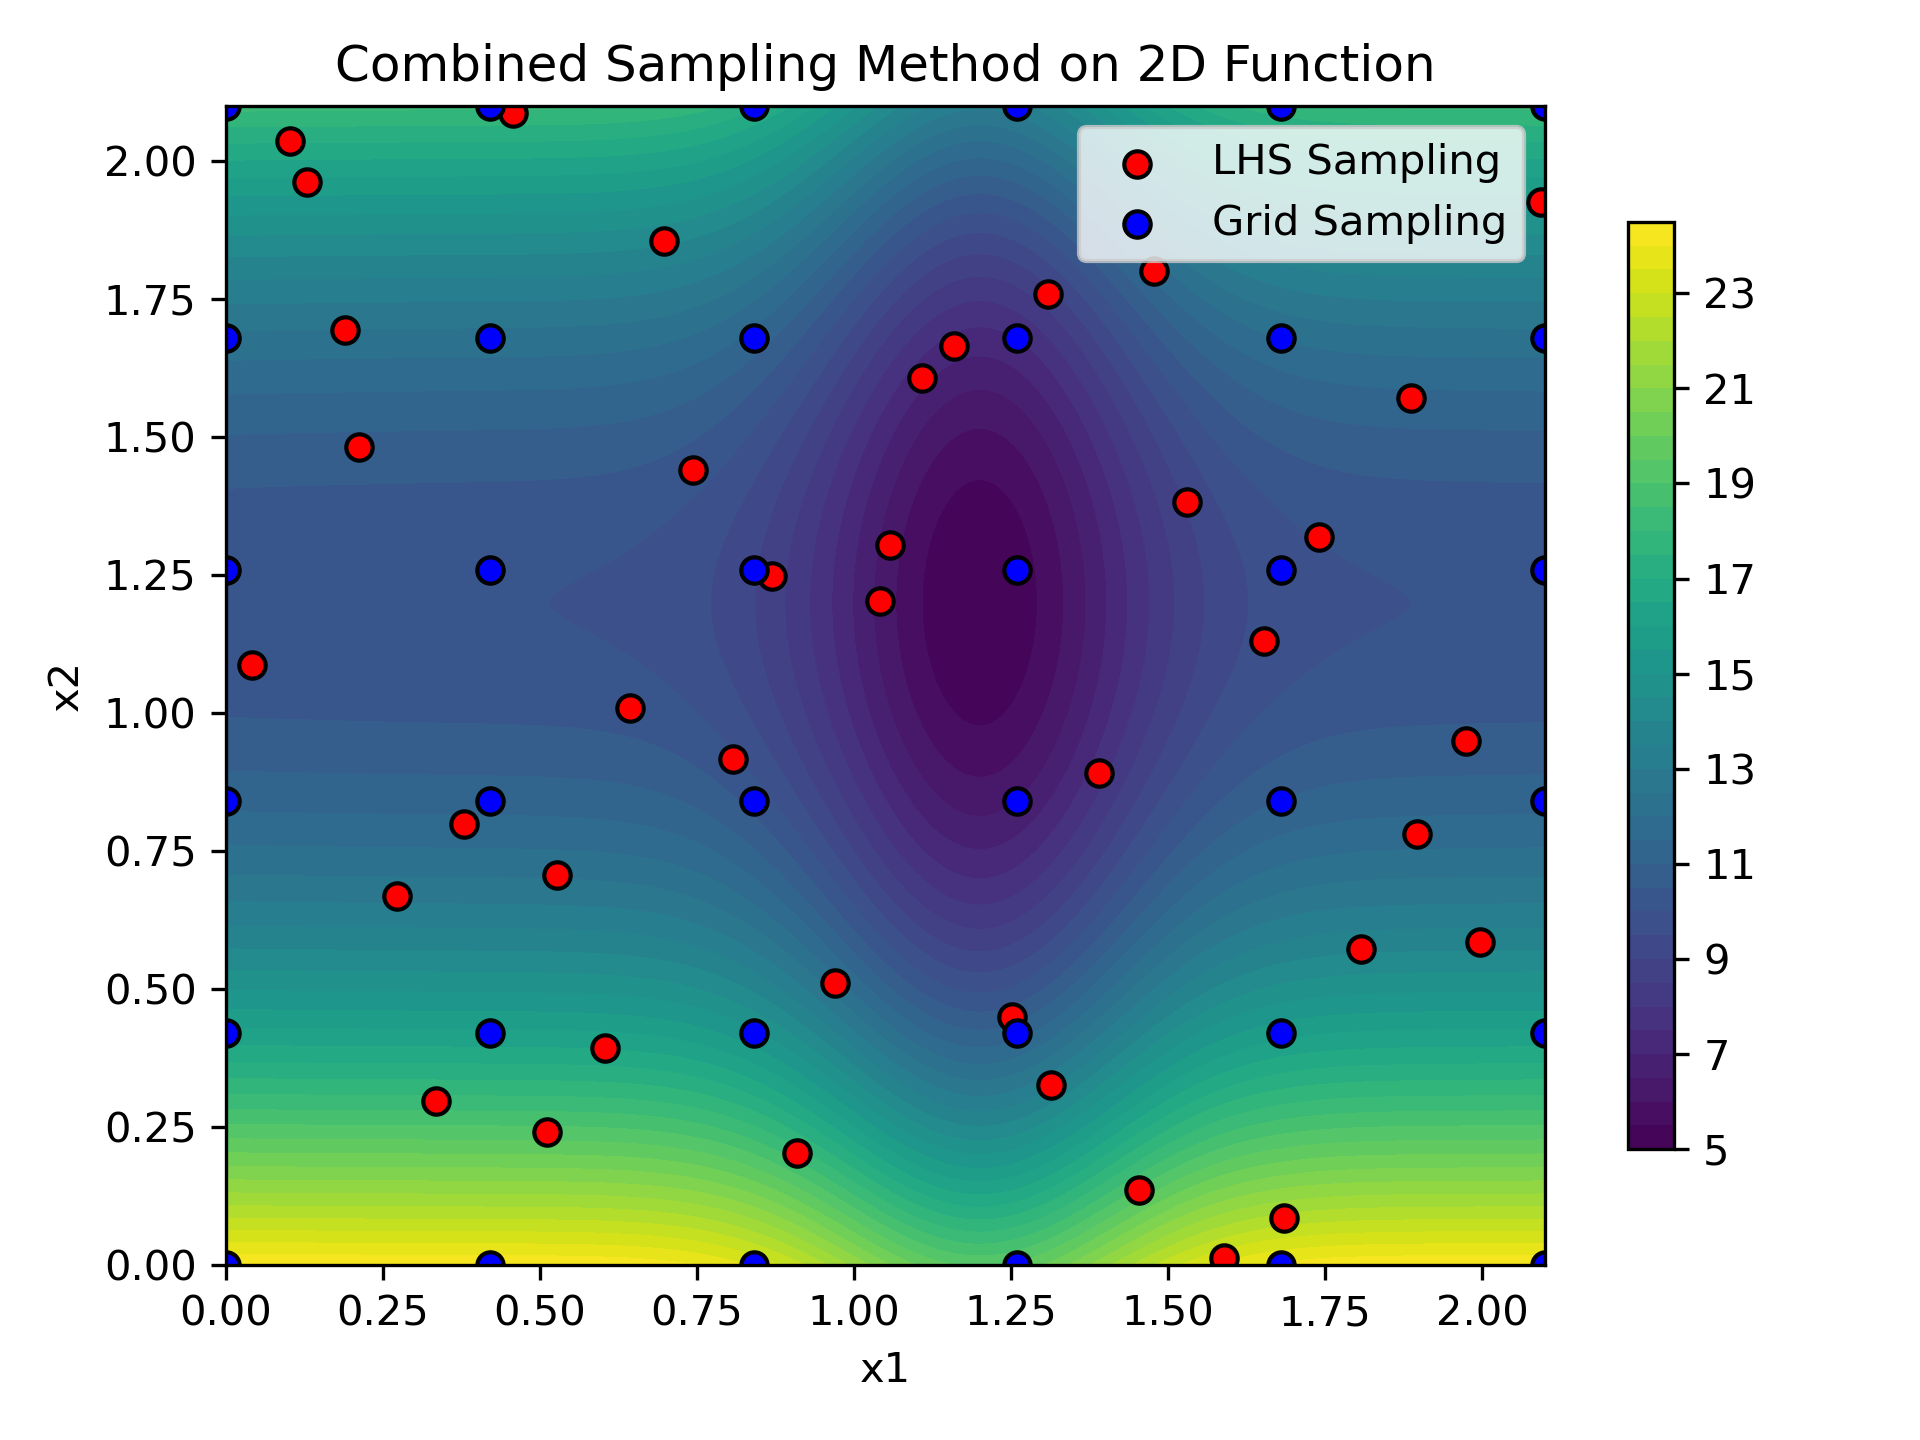
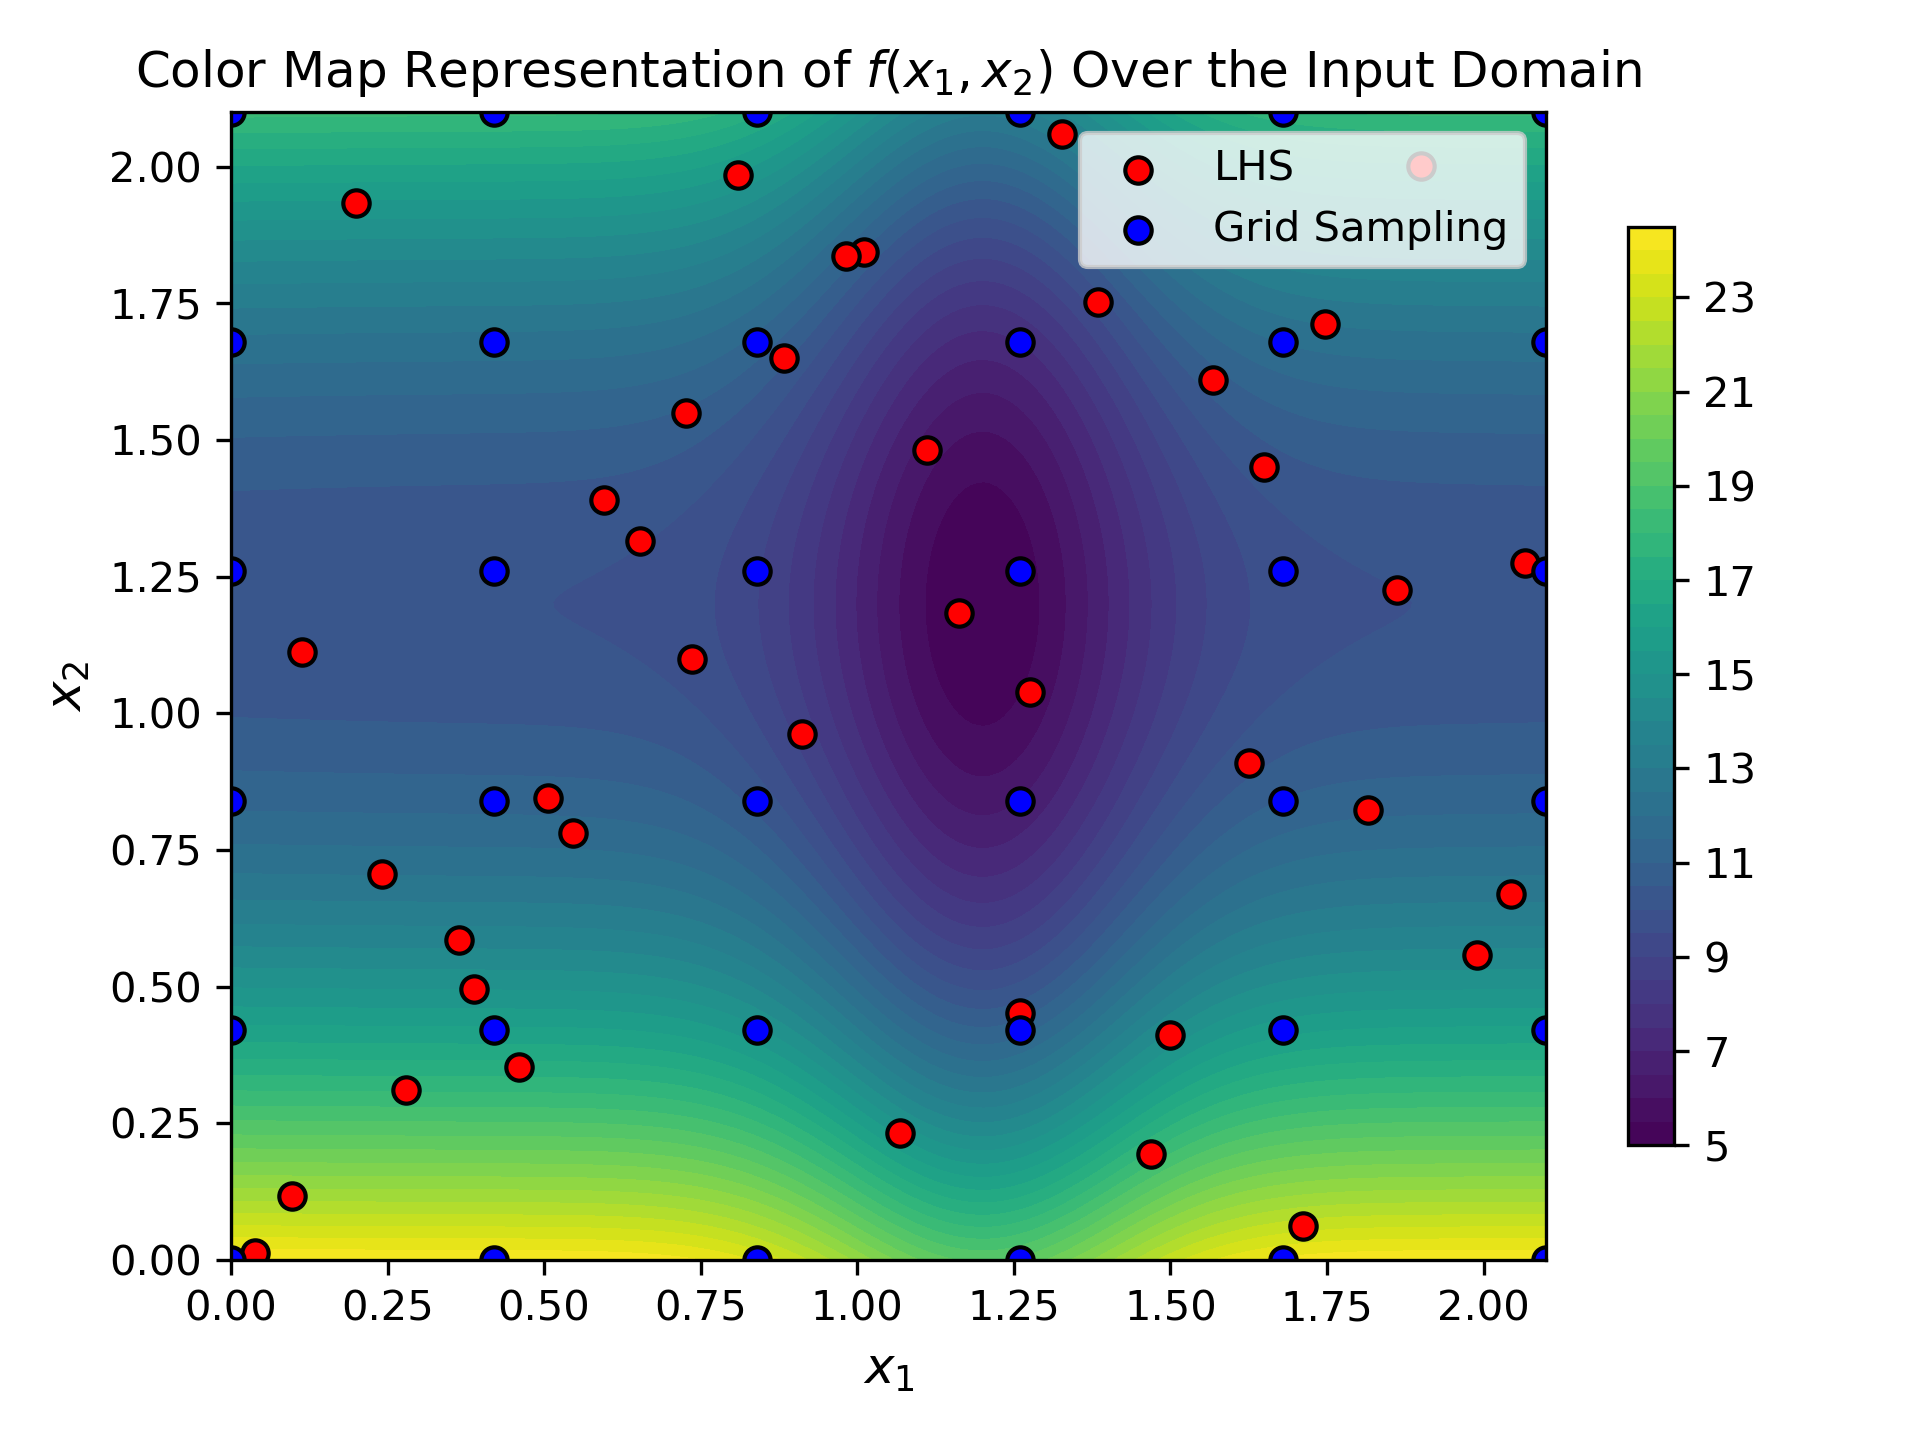
ubuntu

diff --git a/sampling_method_2D.py b/sampling_method_2D.py
@@ -2,6 +2,8 @@ import numpy as np
 import matplotlib.pyplot as plt
 from scipy.stats import qmc  # for LHS
 
+plt.rcParams['font.family'] = 'Times New Roman'
+
 # -------------------------------
 # Define nonlinear bounded 2D function
 # -------------------------------
@@ -47,13 +49,13 @@ cs = plt.contourf(XX, YY, ZZ, levels=40, cmap="viridis")
 
 # Plot both sampling methods
 plt.scatter(lhs_points[:, 0], lhs_points[:, 1], 
-            c="red", edgecolor="k", s=40, label="LHS Sampling")
+            c="red", edgecolor="k", s=40, label="LHS")
 plt.scatter(grid_points[:, 0], grid_points[:, 1], 
             c="blue", edgecolor="k", s=40, label="Grid Sampling")
 
-plt.title("Combined Sampling Method on 2D Function")
-plt.xlabel("x1")
-plt.ylabel("x2")
+plt.title("Color Map Representation of $f(x_1,x_2)$ Over the Input Domain")
+plt.xlabel("$x_1$",fontsize=12)
+plt.ylabel("$x_2$",fontsize=12)
 plt.legend(loc="upper right")
 plt.colorbar(cs, shrink=0.8)
 plt.tight_layout()

diff --git a/plot_savedfile.py b/plot_savedfile.py
@@ -13,13 +13,13 @@ def plot_savedfile(filename):
     # plot
     plt.figure(figsize=(5, 3))
     plt.plot(cost, label='Cost', color='orange',marker='*', linewidth=2)
-    plt.title('Cost Over Iterations')
+    # plt.title('Cost Over Iterations')
     plt.xlabel('Iteration')
     plt.ylabel('Cost Function Value')
     plt.grid(linestyle='--', alpha=0.7)
     plt.legend()
     plt.tight_layout()
-    plt.savefig('cost_plot.png')
+    # plt.savefig('cost_plot.png')
     plt.show()
 
 
